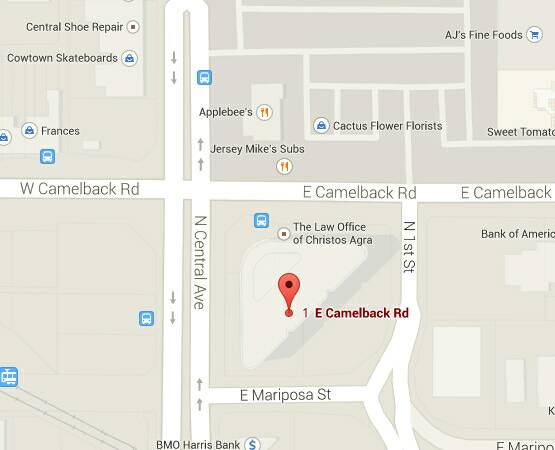
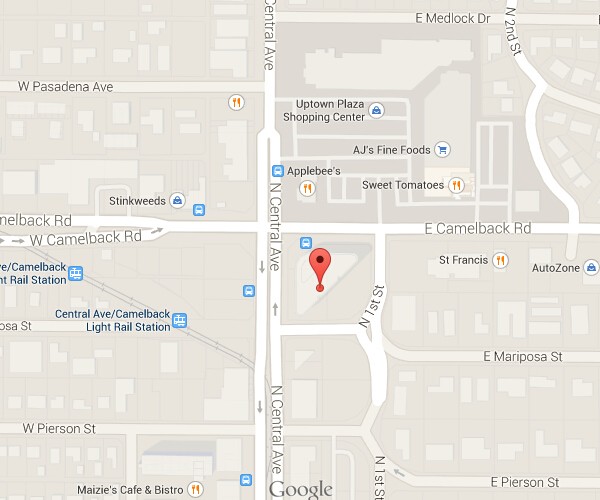
调整地图大小，更换地图

diff --git a/ipts1.html b/ipts1.html
@@ -198,7 +198,7 @@
                 </div>
             </div>
             <div class="row text-center">
-                <div class="col-md-4 ft-mymodel" title="NewYork">
+                <div class="col-md-4 ft-mymodel" title="NYWall">
                     <span>
                         <img src="assets/img/cc0.png" class="ft-block" alt="New York"/>
                     </span>

diff --git a/css/bootstrap.min.css b/css/bootstrap.min.css
@@ -4687,7 +4687,7 @@ button.close {
 }
 @media (min-width:768px) {
 	.modal-dialog {
-		width: 600px;
+		width: 632px;
 		margin: 30px auto
 	}
 	.modal-content {
